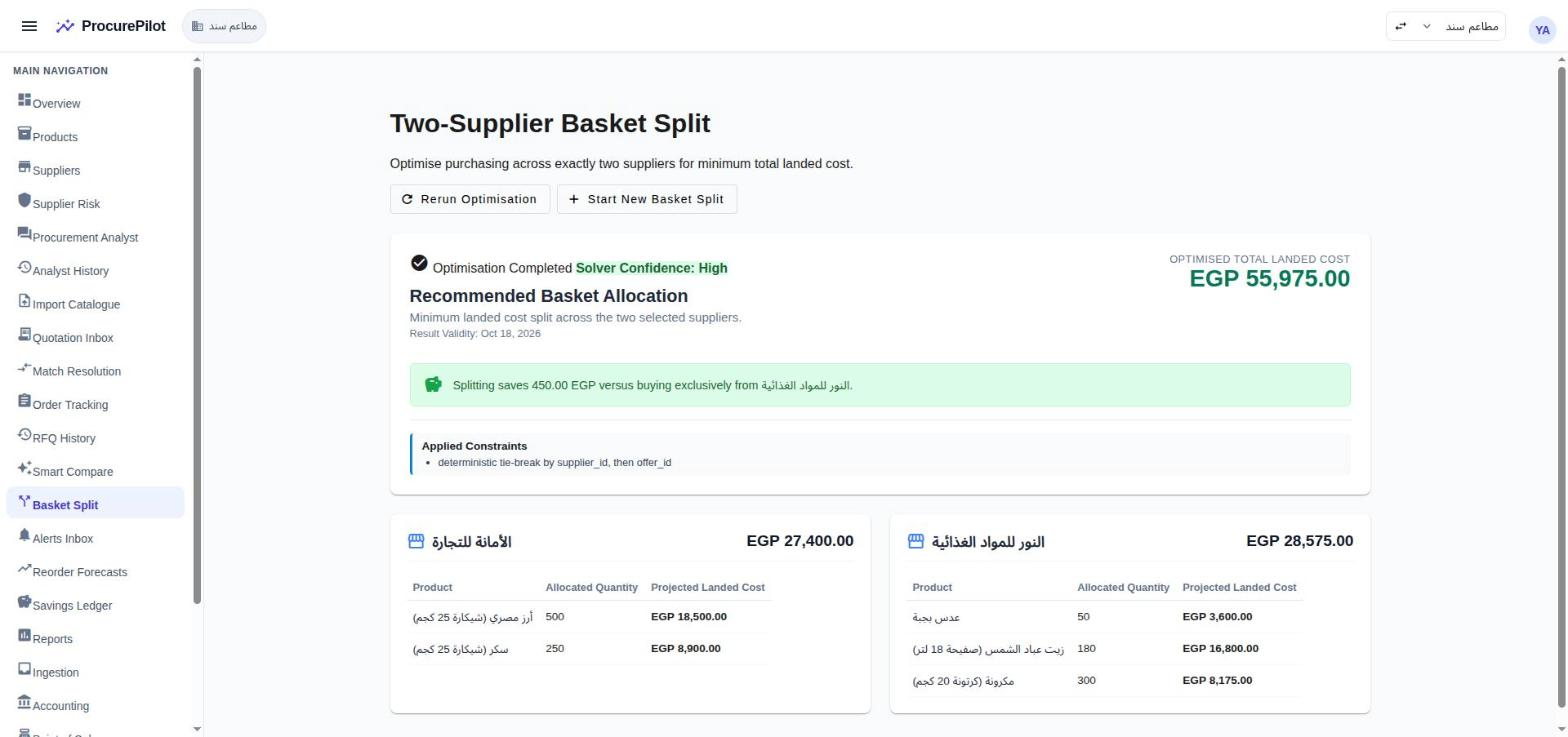
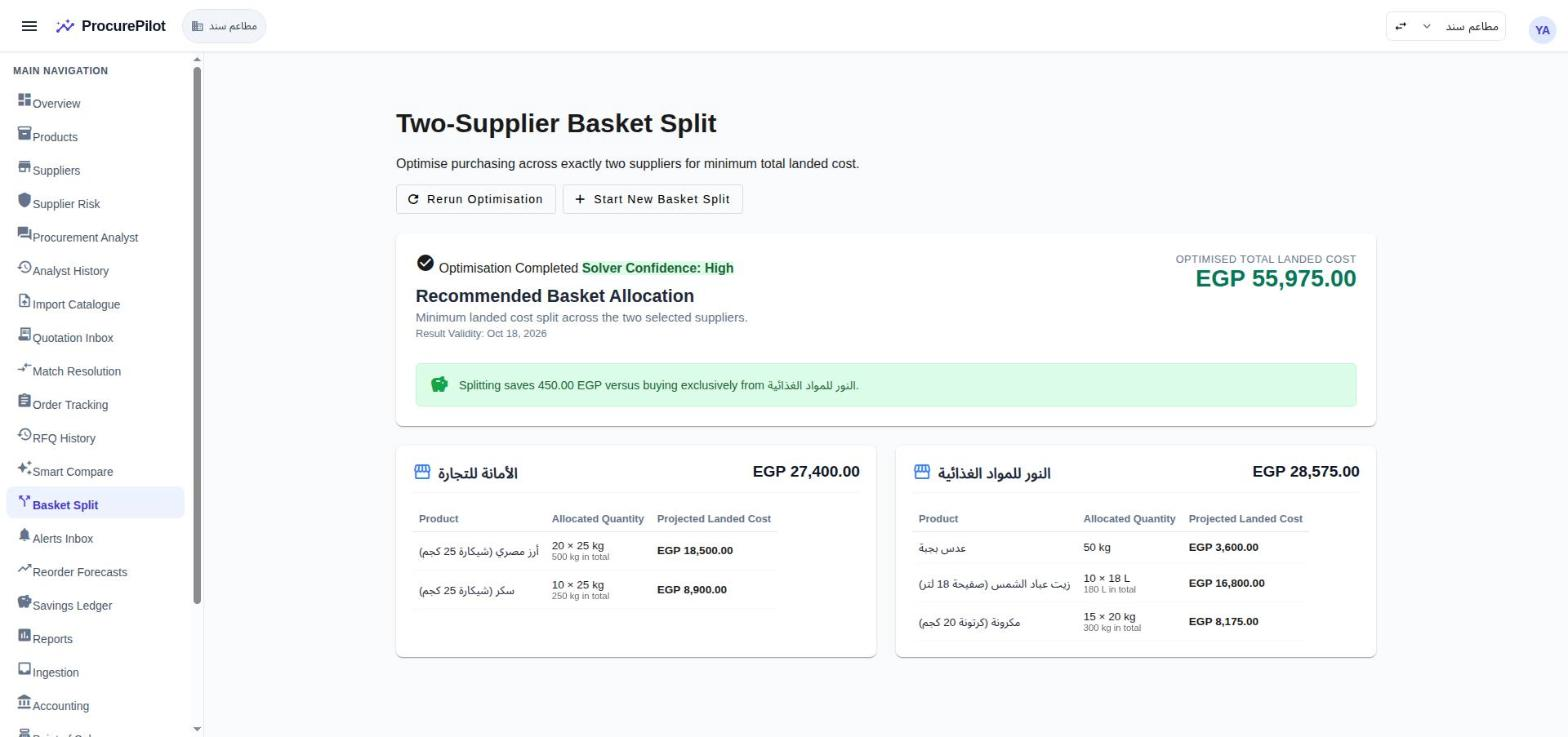
docs(gtm): round-1 basket result screenshot after #141 (packs, no tie-break)

diff --git a/docs/gtm/demo-tenant/round-1/README.md b/docs/gtm/demo-tenant/round-1/README.md
@@ -101,8 +101,8 @@ the page now shows the split and "Splitting saves 450.00 EGP versus buying exclu
 
 ![Basket split result: EGP 55,975, saves 450 EGP](10-basket-split-result.jpg)
 
-Open on this screen (sent to the optimiser session): allocated quantities show in kg/litres (500, 250, 180)
-instead of packs, and "Applied Constraints" shows the solver's internal English tie-break text.
+Since #141 (2026-10-18) the cards show packs first ("20 × 25 kg", "500 kg in total") and constraint text
+comes from en/ar copy; the solver's internal tie-break line is no longer shown. Screenshot retaken after #141.
 
 ## Savings ledger (checked 2026-10-18)
 
